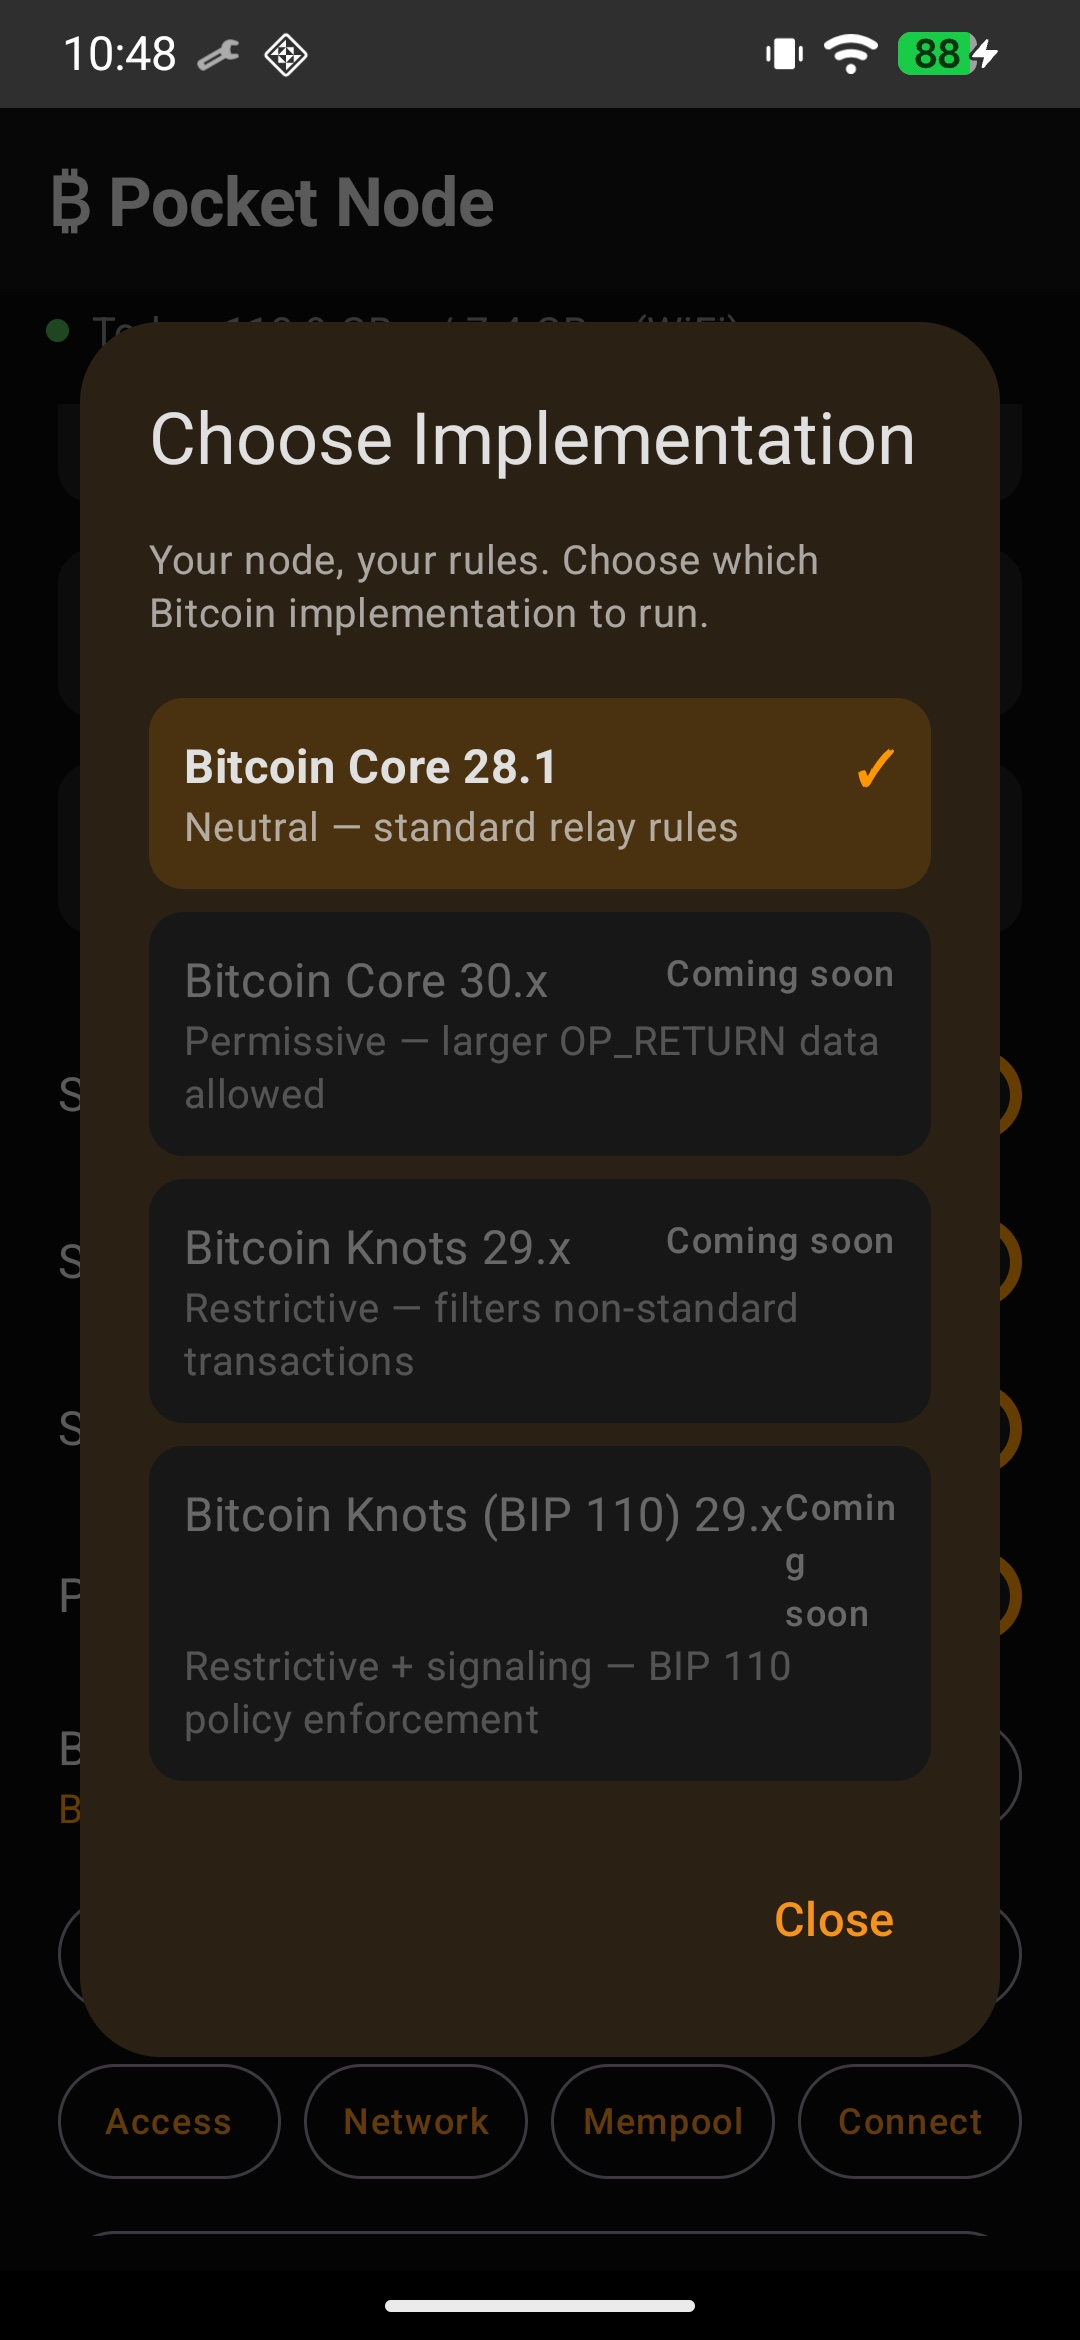
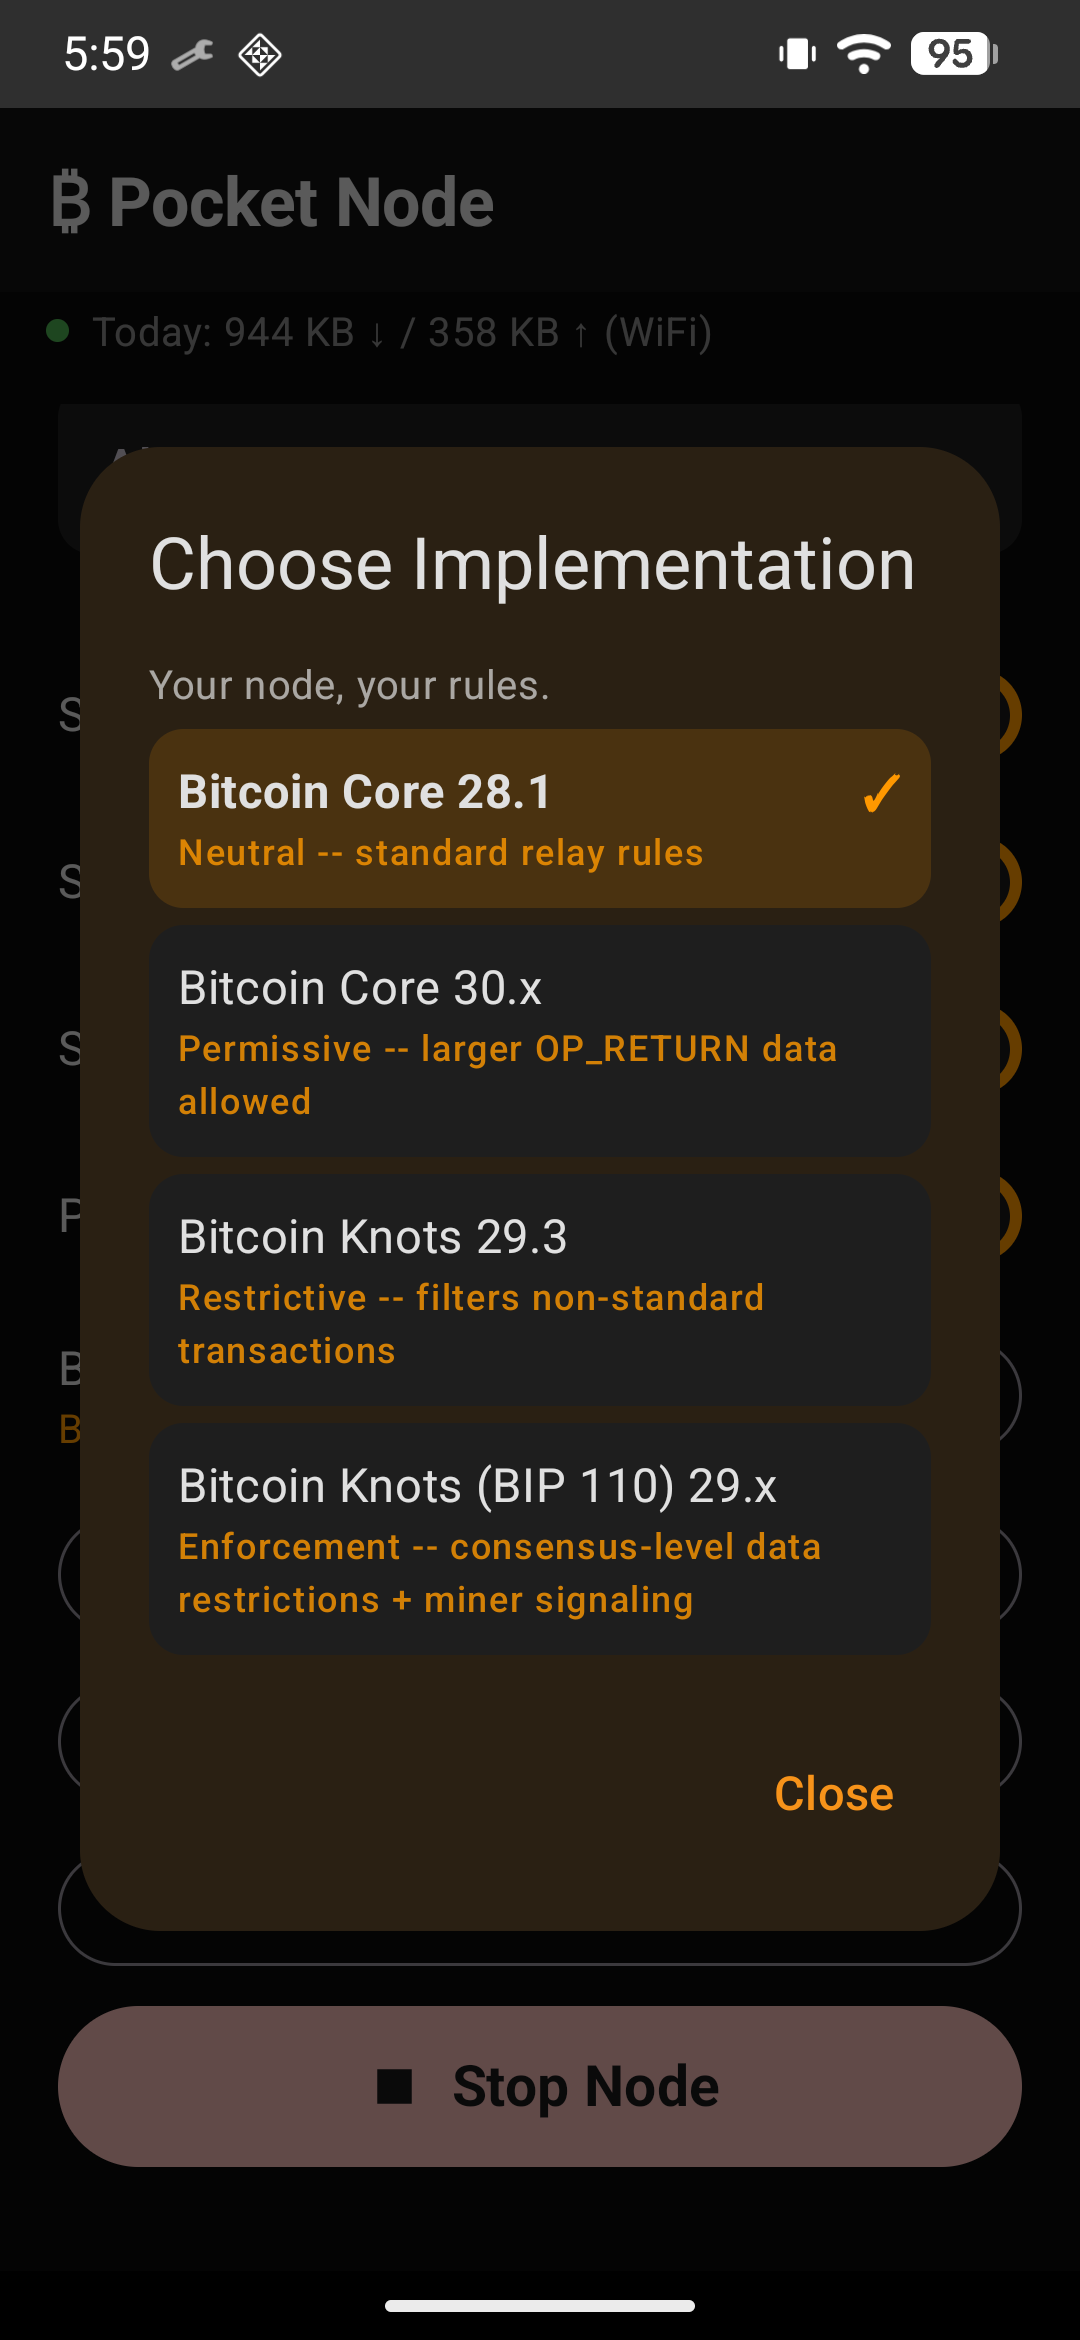
Update screenshots: fresh captures with node running
Version picker: Core 28.1 selected (default)
Connect wallet: Electrum server running green
Zeus setup guide: new screenshot with warning + steps
Added Zeus guide to README screenshot grid.

diff --git a/README.md b/README.md
@@ -31,9 +31,9 @@ Turn any Android phone into a fully-validating Bitcoin full node. No server depe
 
 **Choose your implementation**
 
-| Version picker |
-|:---:|
-| ![Choose Bitcoin implementation](docs/images/09-version-picker.jpg) |
+| Version picker | Zeus setup guide |
+|:---:|:---:|
+| ![Choose Bitcoin implementation](docs/images/09-version-picker.jpg) | ![Zeus setup guide with version warning](docs/images/10-zeus-setup-guide.jpg) |
 
 ## How It Works
 
